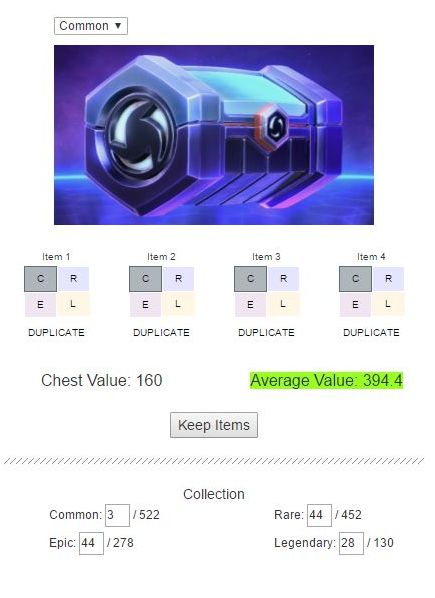
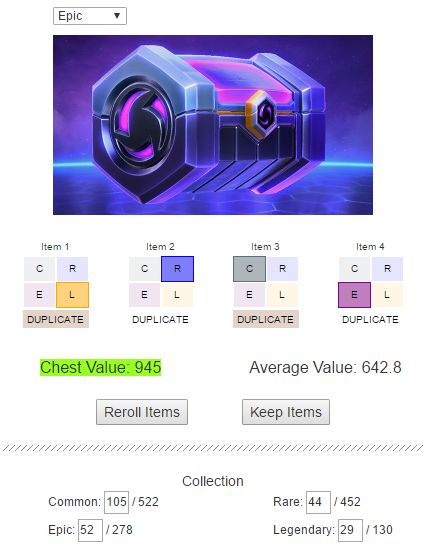
Updated images, README

diff --git a/index.html b/index.html
@@ -35,7 +35,7 @@
 	  </div>
 	  <div class="row">
 	    <div id="image-panel" class="col-xs-12">
-          <img src="images/chest_common.png" alt="Loot chest" width="320" height="180">
+          <img src="images/chest_common.jpg" alt="Loot chest" width="320" height="180">
 		</div>
 	  </div>
       <div id="items-row" class="row noselect">

diff --git a/js/main.js b/js/main.js
@@ -101,7 +101,7 @@ var HotSRerollCalc = (function() {
 		updateChestValue();
 		updateAverageValue(rarity);
 		displayResult();
-		$("#image-panel img").attr("src", "images/chest_" + rarity + ".png");
+		$("#image-panel img").attr("src", "images/chest_" + rarity + ".jpg");
 	}
 	
 	function updateChestValue() {

diff --git a/README.md b/README.md
@@ -1,5 +1,5 @@
 # HotS Reroll Calc
-Helps you determine when to consider rerolling loot chests.
+Helps determine when to consider rerolling loot chests.
 
 Website can be found at https://freezard.github.io/hots-reroll-calc/
 
@@ -7,7 +7,8 @@ Website can be found at https://freezard.github.io/hots-reroll-calc/
 
 ## FEATURES
 - Displays the effective amount of shards you will receive from a loot chest.
-- Lets you specify the amount of items of different qualities you own.
+- Choose from all types of chests in the game.
+- Lets you specify the amount of items you own of each rarity.
 - Your collection is used when calculating the average amount of shards a loot chest will contain.
 - Comparing the two values will help you determine whether to reroll the chest or not.
 - Your collection is saved locally in the browser.
@@ -18,6 +19,7 @@ Website can be found at https://freezard.github.io/hots-reroll-calc/
 - Select the type of chest you're opening from the drop-down menu.
 - Enter the contents of the chest you've opened by clicking on the different boxes.
   C = Common R = Rare E = Epic L = Legendary
-- Specify whether the items you got were duplicates by clicking on the DUPLICATES boxes.
-- The chest value in shards will be compared to the average chest value. If it's lower, consider rerolling.
-- Pressing the Keep Items button will automatically add any new items from the chest to your collection.
+- Specify whether the items you got were duplicates or not by clicking on the DUPLICATES boxes.
+- The chest value (in shards) will be compared to the average chest value. If it's lower, consider rerolling.
+- Pressing the Keep Items button will add any new items from the chest to your collection.
+- Pressing the Reroll Items button will discard the items.
